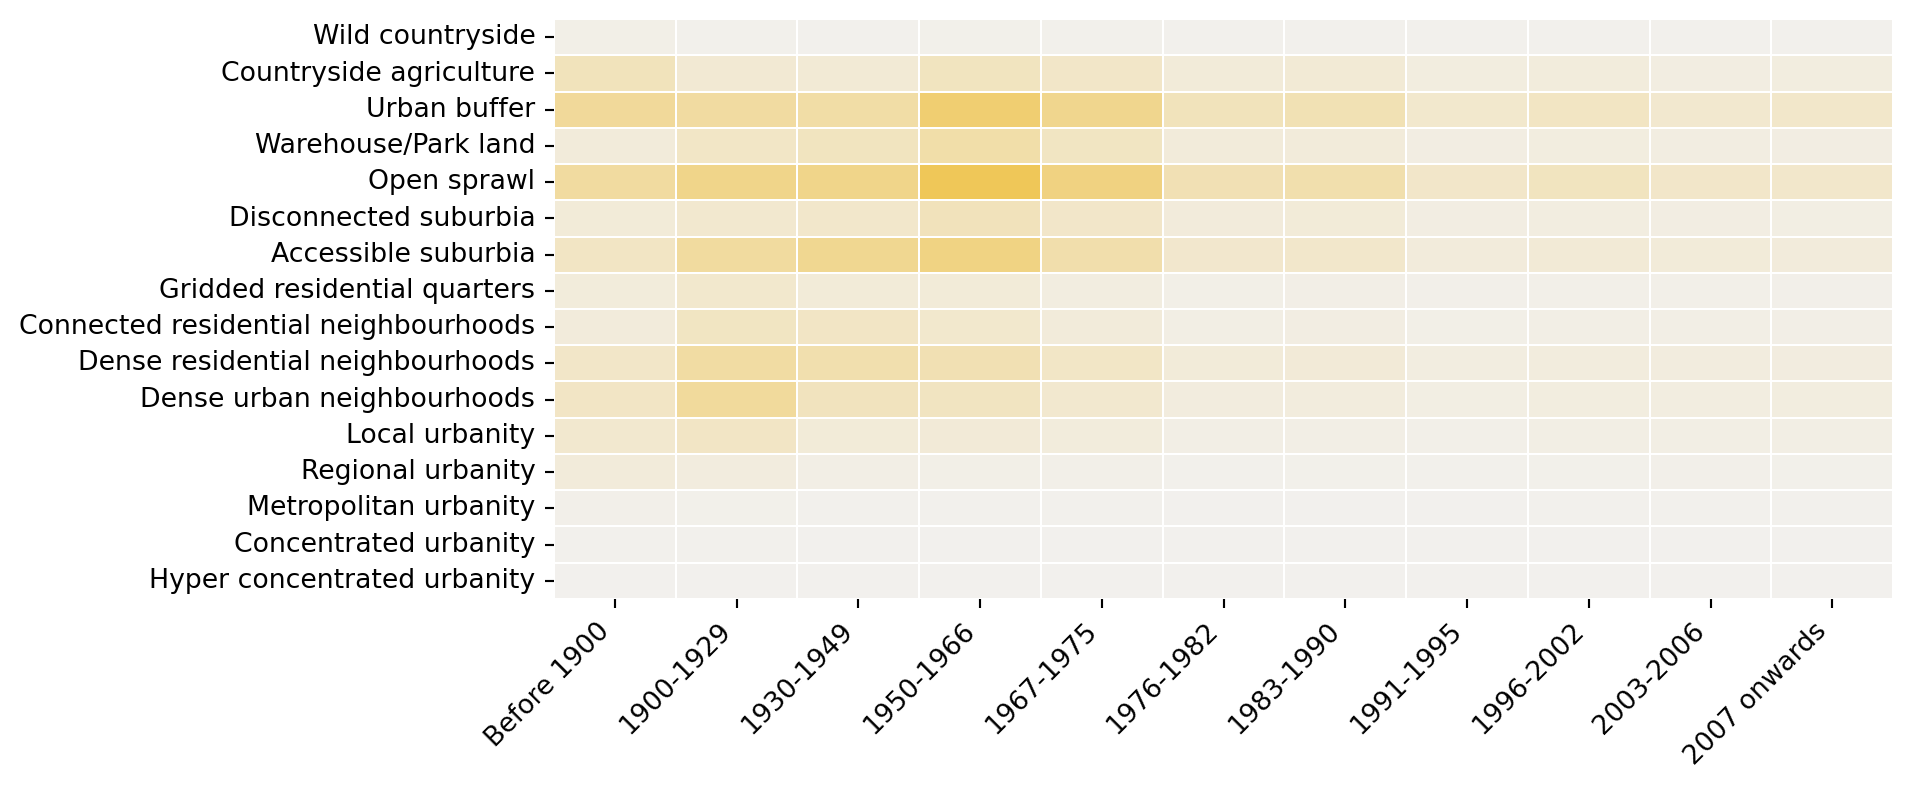
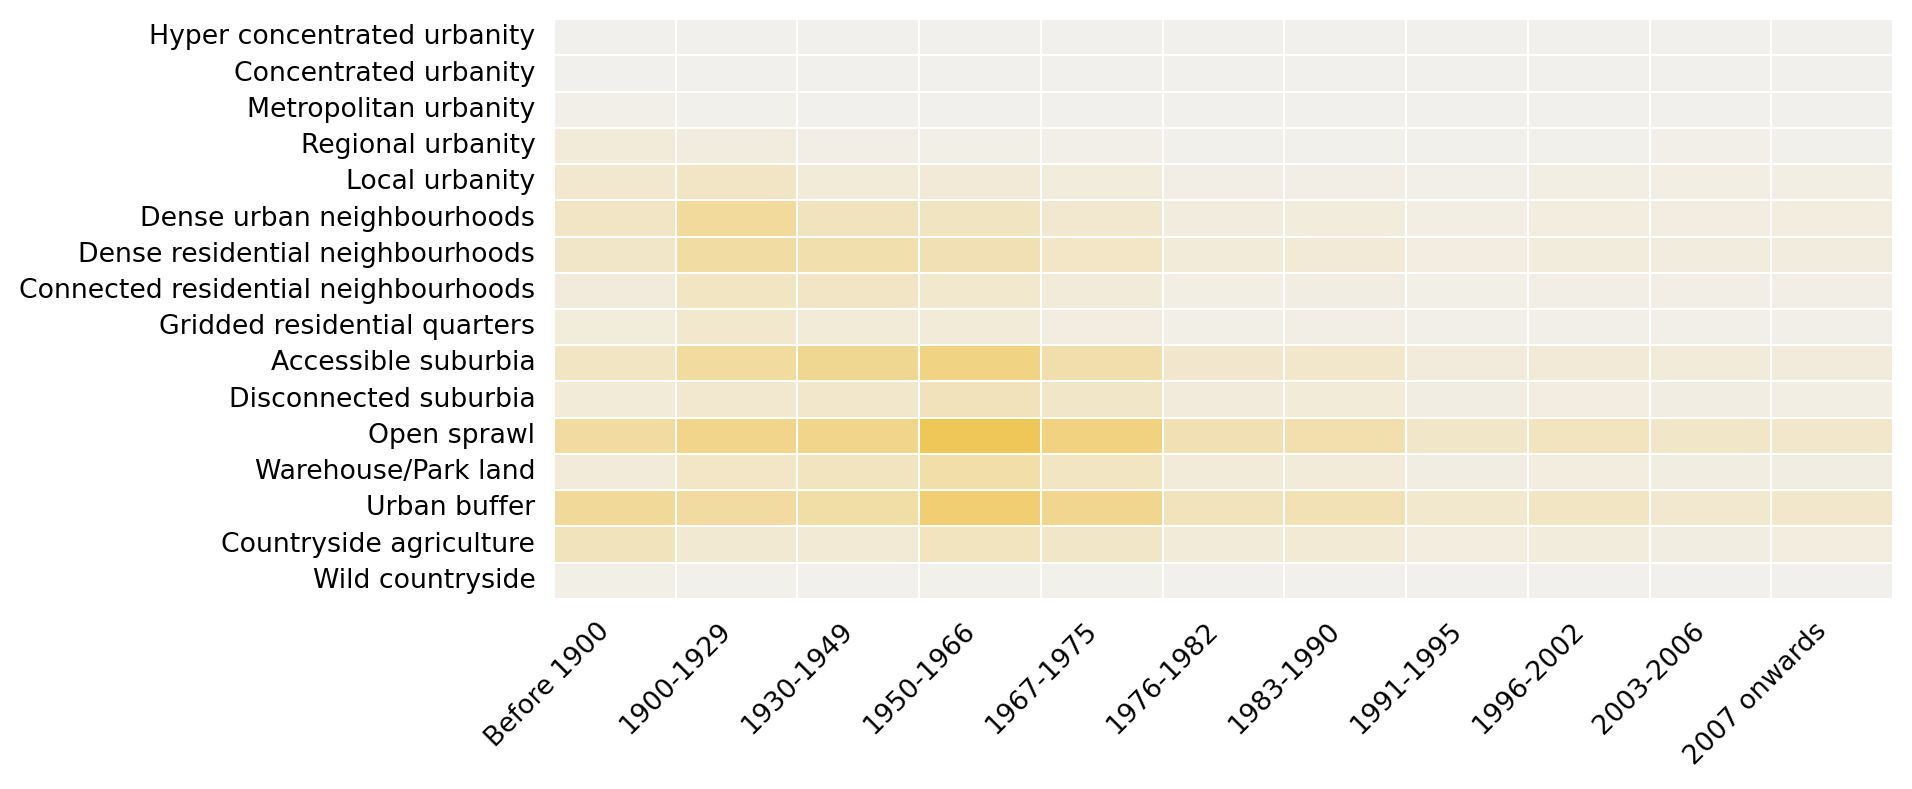
New build

Changed region(s): [[0.0, 0.0304, 1.0, 0.7605]]

diff --git a/docs/index.html b/docs/index.html
@@ -262,7 +262,7 @@ div.csl-indent {
 <span id="cb1-40"><a href="#cb1-40" aria-hidden="true" tabindex="-1"></a>    <span class="st">'data/epc_age_by_ss.csv'</span>, </span>
 <span id="cb1-41"><a href="#cb1-41" aria-hidden="true" tabindex="-1"></a>    index_col<span class="op">=</span><span class="st">'age_remapped'</span>,</span>
 <span id="cb1-42"><a href="#cb1-42" aria-hidden="true" tabindex="-1"></a>    skiprows<span class="op">=</span>[<span class="op">-</span><span class="dv">1</span>]</span>
-<span id="cb1-43"><a href="#cb1-43" aria-hidden="true" tabindex="-1"></a>)[type_order].reindex(epc_age_order)</span>
+<span id="cb1-43"><a href="#cb1-43" aria-hidden="true" tabindex="-1"></a>)[type_order[::<span class="op">-</span><span class="dv">1</span>]].reindex(epc_age_order)</span>
 <span id="cb1-44"><a href="#cb1-44" aria-hidden="true" tabindex="-1"></a>epc.index.name <span class="op">=</span> <span class="st">''</span></span>
 <span id="cb1-45"><a href="#cb1-45" aria-hidden="true" tabindex="-1"></a>lr <span class="op">=</span> pandas.read_csv(</span>
 <span id="cb1-46"><a href="#cb1-46" aria-hidden="true" tabindex="-1"></a>    <span class="st">'data/lr_sales_by_month_ss.csv'</span>, index_col<span class="op">=</span><span class="st">'moy'</span></span>
@@ -278,9 +278,10 @@ div.csl-indent {
 <div class="cell page-columns page-full" data-reference-location="margin" data-execution_count="2">
 <details>
 <summary>Code</summary>
-<div class="sourceCode cell-code" id="cb2"><pre class="sourceCode python code-with-copy"><code class="sourceCode python"><span id="cb2-1"><a href="#cb2-1" aria-hidden="true" tabindex="-1"></a>ax <span class="op">=</span> epc.<span class="bu">sum</span>(axis<span class="op">=</span><span class="dv">0</span>).plot.barh(figsize<span class="op">=</span>(<span class="dv">4</span>, <span class="dv">4</span>), color<span class="op">=</span>ugg.HEX[<span class="dv">2</span>])</span>
+<div class="sourceCode cell-code" id="cb2"><pre class="sourceCode python code-with-copy"><code class="sourceCode python"><span id="cb2-1"><a href="#cb2-1" aria-hidden="true" tabindex="-1"></a>ax <span class="op">=</span> epc.<span class="bu">sum</span>(axis<span class="op">=</span><span class="dv">0</span>)[::<span class="op">-</span><span class="dv">1</span>].plot.barh(figsize<span class="op">=</span>(<span class="dv">4</span>, <span class="dv">4</span>), color<span class="op">=</span>ugg.HEX[<span class="dv">2</span>])</span>
 <span id="cb2-2"><a href="#cb2-2" aria-hidden="true" tabindex="-1"></a>ax.set_xticks([])</span>
-<span id="cb2-3"><a href="#cb2-3" aria-hidden="true" tabindex="-1"></a>ax.set_frame_on(<span class="va">False</span>)</span></code><button title="Copy to Clipboard" class="code-copy-button"><i class="bi"></i></button></pre></div>
+<span id="cb2-3"><a href="#cb2-3" aria-hidden="true" tabindex="-1"></a>ax.tick_params(left<span class="op">=</span><span class="va">False</span>)</span>
+<span id="cb2-4"><a href="#cb2-4" aria-hidden="true" tabindex="-1"></a>ax.set_frame_on(<span class="va">False</span>)</span></code><button title="Copy to Clipboard" class="code-copy-button"><i class="bi"></i></button></pre></div>
 </details>
 <div class="cell-output cell-output-display page-columns page-full">
 <div id="epc-by-sig" class="quarto-figure quarto-figure-center anchored page-columns page-full">
@@ -306,7 +307,8 @@ div.csl-indent {
 <span id="cb3-7"><a href="#cb3-7" aria-hidden="true" tabindex="-1"></a>    linecolor<span class="op">=</span><span class="st">'w'</span>,</span>
 <span id="cb3-8"><a href="#cb3-8" aria-hidden="true" tabindex="-1"></a>    ax<span class="op">=</span>ax</span>
 <span id="cb3-9"><a href="#cb3-9" aria-hidden="true" tabindex="-1"></a>)</span>
-<span id="cb3-10"><a href="#cb3-10" aria-hidden="true" tabindex="-1"></a>h.set_xticklabels(h.get_xticklabels(), rotation <span class="op">=</span> <span class="dv">45</span>, ha<span class="op">=</span><span class="st">"right"</span>)<span class="op">;</span></span></code><button title="Copy to Clipboard" class="code-copy-button"><i class="bi"></i></button></pre></div>
+<span id="cb3-10"><a href="#cb3-10" aria-hidden="true" tabindex="-1"></a>h.tick_params(left<span class="op">=</span><span class="va">False</span>, bottom<span class="op">=</span><span class="va">False</span>)</span>
+<span id="cb3-11"><a href="#cb3-11" aria-hidden="true" tabindex="-1"></a>h.set_xticklabels(h.get_xticklabels(), rotation <span class="op">=</span> <span class="dv">45</span>, ha<span class="op">=</span><span class="st">"right"</span>)<span class="op">;</span></span></code><button title="Copy to Clipboard" class="code-copy-button"><i class="bi"></i></button></pre></div>
 </details>
 <div class="cell-output cell-output-display column-page-right">
 <div id="epc-by-sig-by-time" class="quarto-figure quarto-figure-center anchored">
@@ -331,7 +333,8 @@ div.csl-indent {
 <span id="cb4-9"><a href="#cb4-9" aria-hidden="true" tabindex="-1"></a>    linecolor<span class="op">=</span><span class="st">'w'</span>,</span>
 <span id="cb4-10"><a href="#cb4-10" aria-hidden="true" tabindex="-1"></a>    ax<span class="op">=</span>ax</span>
 <span id="cb4-11"><a href="#cb4-11" aria-hidden="true" tabindex="-1"></a>)</span>
-<span id="cb4-12"><a href="#cb4-12" aria-hidden="true" tabindex="-1"></a>h.set_xticklabels(h.get_xticklabels(), rotation <span class="op">=</span> <span class="dv">45</span>, ha<span class="op">=</span><span class="st">"right"</span>)<span class="op">;</span></span></code><button title="Copy to Clipboard" class="code-copy-button"><i class="bi"></i></button></pre></div>
+<span id="cb4-12"><a href="#cb4-12" aria-hidden="true" tabindex="-1"></a>h.tick_params(left<span class="op">=</span><span class="va">False</span>, bottom<span class="op">=</span><span class="va">False</span>)</span>
+<span id="cb4-13"><a href="#cb4-13" aria-hidden="true" tabindex="-1"></a>h.set_xticklabels(h.get_xticklabels(), rotation <span class="op">=</span> <span class="dv">45</span>, ha<span class="op">=</span><span class="st">"right"</span>)<span class="op">;</span></span></code><button title="Copy to Clipboard" class="code-copy-button"><i class="bi"></i></button></pre></div>
 </details>
 <div class="cell-output cell-output-display page-columns page-full">
 <div id="epc-by-sig-by-time-rs" class="quarto-figure quarto-figure-center anchored page-columns page-full">
@@ -356,7 +359,8 @@ div.csl-indent {
 <span id="cb5-9"><a href="#cb5-9" aria-hidden="true" tabindex="-1"></a>    linecolor<span class="op">=</span><span class="st">'w'</span>,</span>
 <span id="cb5-10"><a href="#cb5-10" aria-hidden="true" tabindex="-1"></a>    ax<span class="op">=</span>ax</span>
 <span id="cb5-11"><a href="#cb5-11" aria-hidden="true" tabindex="-1"></a>)</span>
-<span id="cb5-12"><a href="#cb5-12" aria-hidden="true" tabindex="-1"></a>h.set_xticklabels(h.get_xticklabels(), rotation <span class="op">=</span> <span class="dv">45</span>, ha<span class="op">=</span><span class="st">"right"</span>)<span class="op">;</span></span></code><button title="Copy to Clipboard" class="code-copy-button"><i class="bi"></i></button></pre></div>
+<span id="cb5-12"><a href="#cb5-12" aria-hidden="true" tabindex="-1"></a>h.tick_params(left<span class="op">=</span><span class="va">False</span>, bottom<span class="op">=</span><span class="va">False</span>)</span>
+<span id="cb5-13"><a href="#cb5-13" aria-hidden="true" tabindex="-1"></a>h.set_xticklabels(h.get_xticklabels(), rotation <span class="op">=</span> <span class="dv">45</span>, ha<span class="op">=</span><span class="st">"right"</span>)<span class="op">;</span></span></code><button title="Copy to Clipboard" class="code-copy-button"><i class="bi"></i></button></pre></div>
 </details>
 <div class="cell-output cell-output-display page-columns page-full">
 <div id="epc-by-sig-by-time-cs" class="quarto-figure quarto-figure-center anchored page-columns page-full">
